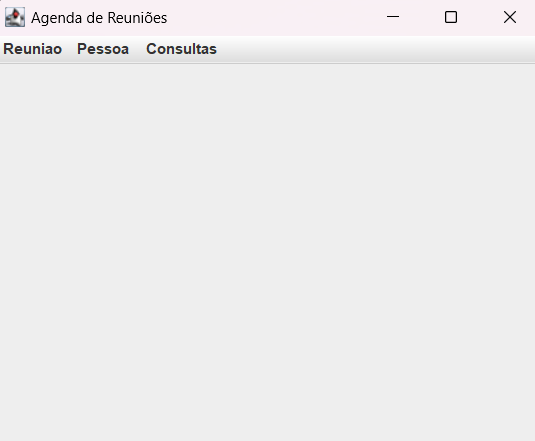
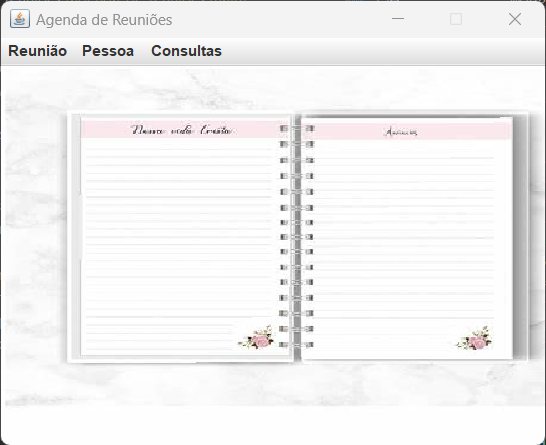
Nova imagem da tela principal e update README.md

diff --git a/src/appswing/TelaPrincipal.java b/src/appswing/TelaPrincipal.java
@@ -8,11 +8,13 @@ package appswing;
 
 import java.awt.EventQueue;
 import java.awt.Font;
+import java.awt.Image;
 import java.awt.event.MouseAdapter;
 import java.awt.event.MouseEvent;
 import java.awt.event.WindowAdapter;
 import java.awt.event.WindowEvent;
 
+import javax.swing.ImageIcon;
 import javax.swing.JFrame;
 import javax.swing.JLabel;
 import javax.swing.JMenu;
@@ -79,16 +81,16 @@ public class TelaPrincipal {
 		label.setHorizontalAlignment(SwingConstants.CENTER);
 		label.setBounds(0, 0, 467, 302);
 		label.setBounds(0, 0, frame.getWidth(), frame.getHeight());
-//		ImageIcon imagem = new
-//		ImageIcon(getClass().getResource("/assets/agenda_reunioes.jpg"));
-//		imagem = new ImageIcon(imagem.getImage().getScaledInstance(label.getWidth(),label.getHeight(), Image.SCALE_DEFAULT));
-//		label.setIcon(imagem);
-//		frame.getContentPane().add(label);
-//		frame.setResizable(false);
+		ImageIcon imagem = new
+		ImageIcon(getClass().getResource("/assets/agenda_reunioes.jpg"));
+		imagem = new ImageIcon(imagem.getImage().getScaledInstance(label.getWidth(),label.getHeight(), Image.SCALE_DEFAULT));
+		label.setIcon(imagem);
+		frame.getContentPane().add(label);
+		frame.setResizable(false);
 
 		JMenuBar menuBar = new JMenuBar();
 		frame.setJMenuBar(menuBar);
-		mmReuniao = new JMenu("Reuniao");
+		mmReuniao = new JMenu("Reunião");
 		mmReuniao.addMouseListener(new MouseAdapter() {
 			@Override
 			public void mouseClicked(MouseEvent e) {

diff --git a/README.md b/README.md
@@ -15,8 +15,92 @@ de dados, tanto para objetos (db4o), quanto para relacional (postgreSQL) ou docu
 
 ## Requisitos para funcionar
 
-- Ver arquivo pom.xml, na raiz do projeto.
+### Configuração do Projeto
 
+1. **Banco de Dados (PostgreSQL ou MySQL)**:
+	- O projeto está configurado para utilizar bancos de dados relacionais. Para que o projeto funcione corretamente, é necessário alterar
+    as configurações do banco de dados e suas credenciais no arquivo `util.properties`:
+     ```
+     sgbd=nome_do_sgbd
+	 banco=nome_do_banco
+	 ip1=endereço_ip_1
+	 ip2=endereco_ip_2 #opicional
+	 ip3=endereco_ip_3 #opicional
+     ```
+
+   - **Passos para criar o banco de dados no PostgreSQL**:
+     1. Abra o PostgreSQL e conecte-se com seu usuário.
+     2. Crie o banco de dados usando o nome especificado no arquivo `util.properties`. Exemplo:
+        ```sql
+        CREATE DATABASE nome_do_banco;
+        ```
+     3. Execute os scripts de inicialização do banco para criar as tabelas e entidades necessárias.
+
+2. **Configuração do db4o**:
+   - db4o é um banco de dados orientado a objetos que não requer a criação explícita de um banco, pois ele cria automaticamente o arquivo para persistência de objetos. No entanto, é necessário garantir que o arquivo de banco esteja corretamente configurado no ambiente.
+   - **Como configurar o db4o**:
+     - Verifique se o arquivo de configuração `util.properties` contém o caminho correto para o arquivo de banco de dados db4o:
+       ```properties
+       db4o.filepath=path/para/db4o/agenda.db4o
+       ```
+     - Para inicializar e rodar a aplicação com db4o, certifique-se de incluir as dependências necessárias no `pom.xml` (ou no classpath, se não estiver usando Maven). db4o requer bibliotecas específicas, que podem ser adicionadas ao projeto.
+
+3. **MongoDB**:
+   - Para usar MongoDB, também será necessário configurar o `util.properties`:
+     ```
+     sgbd=nome_do_sgbd
+	 banco=nome_do_banco
+	 ip1=endereço_ip_1
+	 ip2=endereco_ip_2 #opicional
+	 ip3=endereco_ip_3 #opicional
+     ```
+   - Instale e configure o MongoDB localmente ou em um servidor e crie o banco de dados de acordo com o nome especificado no arquivo de propriedades.
+
+### Dependências
+
+- As dependências do projeto estão configuradas no arquivo `pom.xml`. Certifique-se de que ele está atualizado com as dependências necessárias para PostgreSQL, db4o, MongoDB e JPA. Execute o seguinte comando Maven para baixar as dependências:
+  ```bash
+  mvn clean install
+  ```
+
+## Executando o Projeto
+
+### Banco de dados PostgreSQL:
+
+- Certifique-se de que o PostgreSQL esteja rodando e que o banco foi criado com o nome especificado no arquivo util.properties.
+- Configure a conexão no arquivo util.properties e execute a aplicação.
+
+### Banco de dados db4o:
+
+- Verifique se o arquivo agenda.db4o foi criado corretamente no caminho especificado no arquivo de propriedades.
+- Execute a aplicação e o db4o tratará a persistência dos objetos automaticamente.
+
+### Banco de dados MongoDB:
+
+- Certifique-se de que o MongoDB está rodando e que o banco de dados foi configurado no arquivo util.properties.
+- Ao executar a aplicação, a persistência será gerenciada pelo MongoDB.
+
+## Contribuição ao Projeto
+
+1. Clone o repositório:
+```bash
+git clone https://github.com/AllanSmithll/agenda-reunioes.git
+```
+
+2. Crie um branch para suas alterações:
+```bash
+git checkout -b minha-alteracao
+```
+
+3. Faça o commit de suas alterações:
+```bash
+git commit -m "Descrição das alterações"
+```
+
+4. Envie para o repositório remoto:
+```bash
+git push origin minha-alteracao
+```
 ## Contribuidores
 - Allan Amâncio - https://github.com/AllanSmithll;
 - Márcio José - https://github.com/ImMarcio.
